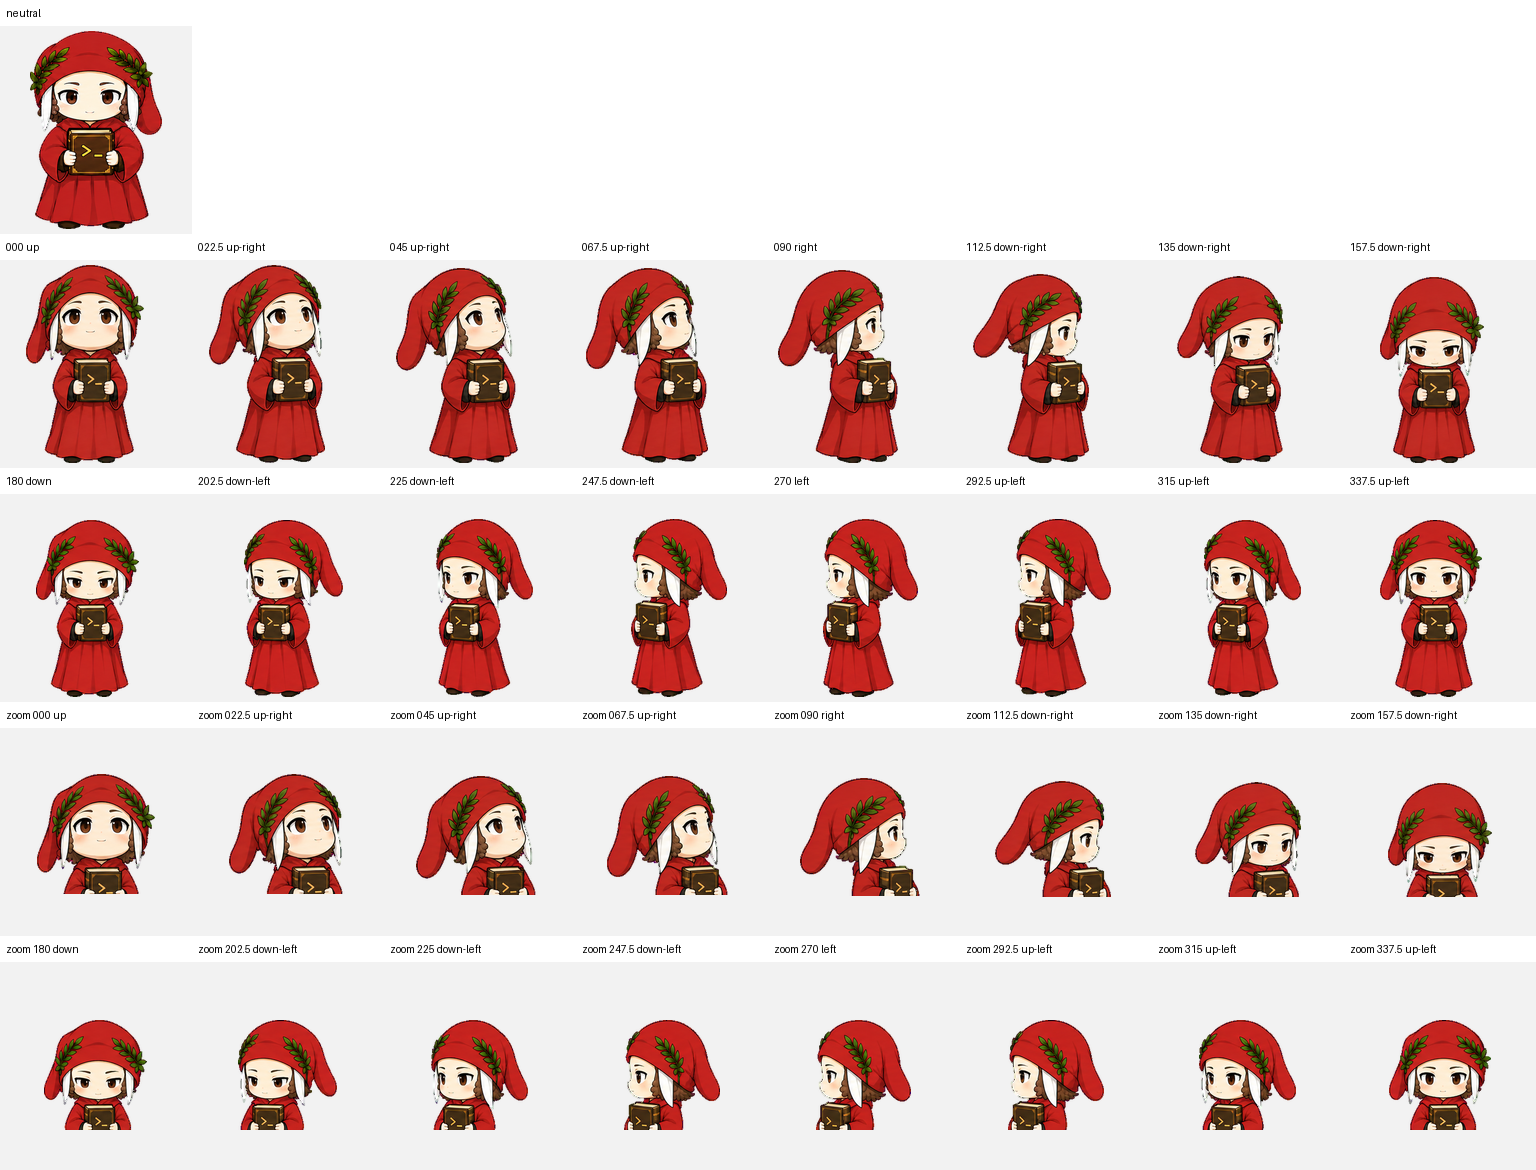
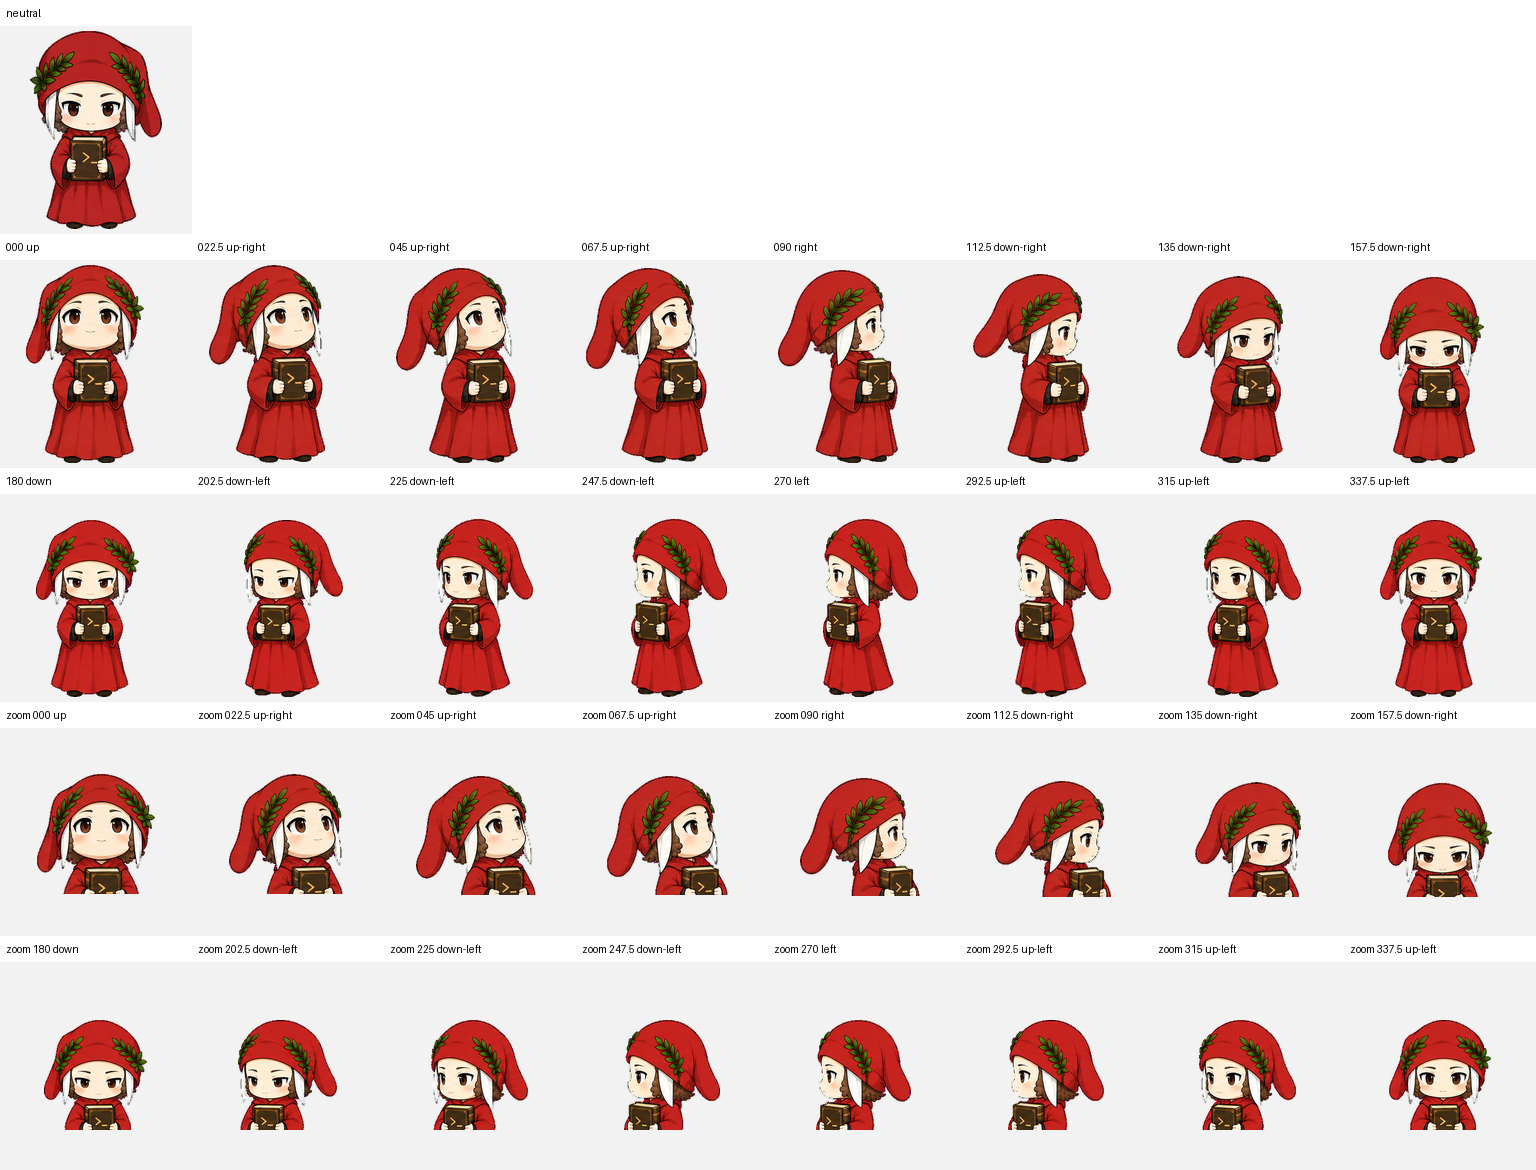
Refine Dantino idle poses

Changed region(s): [[0.0, 0.0308, 0.125, 0.2154]]

diff --git a/README.md b/README.md
@@ -15,6 +15,9 @@ wears a crimson robe and laurel-trimmed cap, carries a Codex book marked `>_`,
 and reacts to working, waiting, reviewing, running, failure, and look-direction
 states.
 
+The idle loop uses a calm front pose and a longer upward-looking pose at one
+shared height, center, and foot baseline, with the book mark kept as `>_`.
+
 The package uses the Codex v2 pet atlas contract:
 
 - RGBA WebP